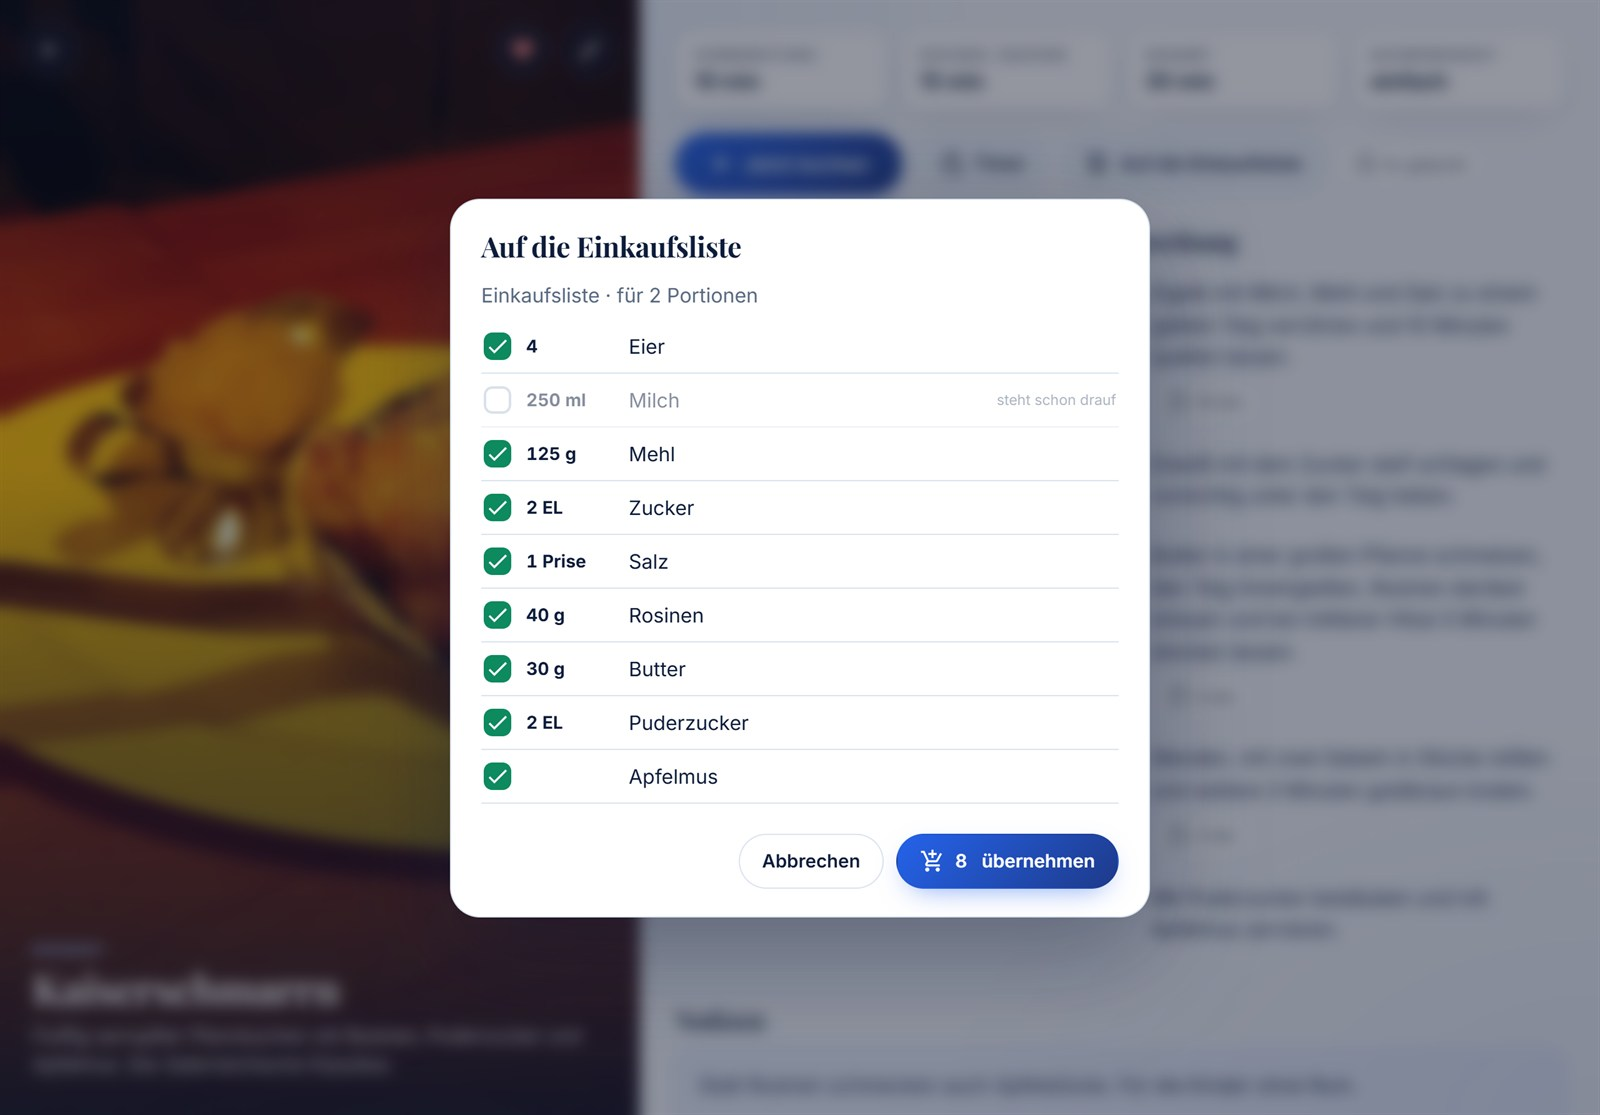
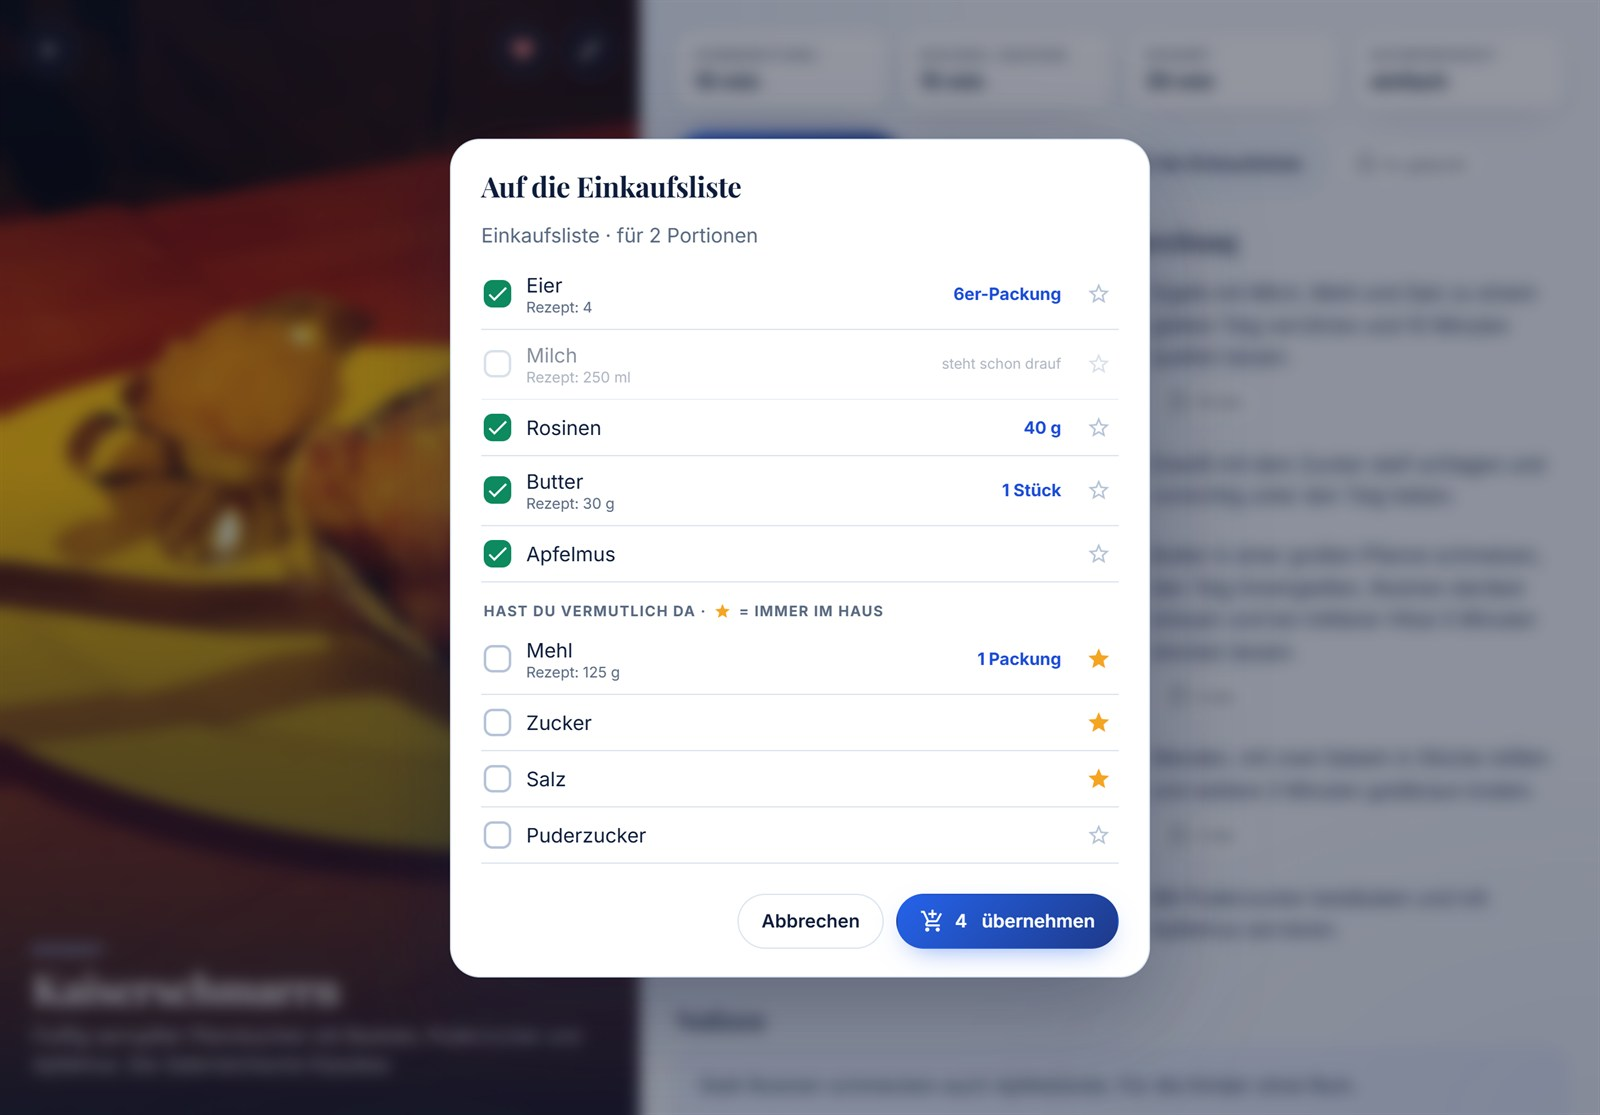
0.6.0: Einkaufsliste rechnet in Packungen und kennt den Vorrat
- Mengen werden in Packungen umgerechnet (150 ml Sahne → 1 Becher,
  4 Eier → 6er-Packung, 2 Zehen Knoblauch → 1 Knolle); lose Ware behält
  das Gewicht, unbekannte Zutaten kommen nur mit dem Namen auf die Liste
- Vorrat und Kleinmengen (Prise, Msp., EL, TL …) sind nicht vorausgewählt
  und stehen unter „Hast du vermutlich da“; Wasser wird nie übernommen
- Stern merkt eine Zutat als „immer im Haus“, gespeichert unter
  kochbuch.pantry; neue Kartenoption pantry für die Startliste
- Gleiche Zutaten werden zusammengerechnet, Eier/Eigelb/Eiweiß zu einer
  Zeile

diff --git a/kochbuch-card.js b/kochbuch-card.js
@@ -1,9 +1,9 @@
-/* kochbuch-card v0.5.2 – eigenes Kochbuch für Home Assistant: Rezepte schreiben und bebildern, Kochmodus mit Timern, Zutaten auf die Einkaufsliste,
+/* kochbuch-card v0.6.0 – eigenes Kochbuch für Home Assistant: Rezepte schreiben und bebildern, Kochmodus mit Timern, Zutaten auf die Einkaufsliste,
    Rezepte aus dem Internet einlesen (schema.org-Rezeptdaten der Seite).
    Rezepte liegen in einem eigenen Dashboard (store), Bilder im Bilderspeicher von Home Assistant (image_upload).
    Seitenabruf über rest_command.kochbuch_abruf, sonst über einen öffentlichen Abrufdienst. */
 (() => {
-  const VERSION = '0.5.2';
+  const VERSION = '0.6.0';
   // Öffentliche Abrufdienste, nur als Notlösung ohne rest_command (oft überlastet)
   const PROXIES = ['https://api.allorigins.win/raw?url=', 'https://api.codetabs.com/v1/proxy?quest='];
   const esc = (s) => String(s == null ? '' : s).replace(/[&<>"']/g, (c) => ({ '&': '&amp;', '<': '&lt;', '>': '&gt;', '"': '&quot;', "'": '&#39;' }[c]));
@@ -198,6 +198,64 @@
     return { r, img: img ? abs(img) : '', found: !!n };
   };
 
+  // ---------- Einkaufen: Vorrat und Packungsgrößen ----------
+  // Grundliste für "hab ich meistens im Haus"; im Kochbuch per Stern änderbar (kb.pantry)
+  const PANTRY = ['Salz', 'Pfeffer', 'Zucker', 'Öl', 'Olivenöl', 'Mehl', 'Essig'];
+  const NEVER = ['wasser', 'leitungswasser', 'eiswasser'];
+  // Kleinstmengen kommen fast immer aus dem Vorrat
+  const TINY = ['prise', 'prisen', 'msp.', 'spritzer', 'schuss', 'tropfen', 'el', 'tl'];
+  const words = (s) => String(s || '').toLowerCase().split(/[\s,/()-]+/).filter(Boolean);
+  const matchName = (name, q) => { q = String(q || '').toLowerCase().trim(); const n = String(name || '').toLowerCase().trim(); return !!q && (n === q || words(n).includes(q)); };
+  const inList = (name, list) => list.some((p) => matchName(name, p));
+  // Übliche Packungen: Stichwort, Größe in g bzw. ml, Bezeichnung
+  const PACKS = [['butter', 250, 'Stück'], ['schlagsahne', 200, 'Becher'], ['saure sahne', 200, 'Becher'], ['sahne', 200, 'Becher'], ['schmand', 200, 'Becher'], ['crème fraîche', 200, 'Becher'],
+    ['creme fraiche', 200, 'Becher'], ['joghurt', 500, 'Becher'], ['quark', 500, 'Packung'], ['mascarpone', 250, 'Packung'], ['frischkäse', 200, 'Packung'], ['mozzarella', 125, 'Packung'],
+    ['feta', 200, 'Packung'], ['milch', 1000, 'Liter'], ['kokosmilch', 400, 'Dose'], ['hackfleisch', 500, 'Packung'], ['hack', 500, 'Packung'], ['speckwürfel', 125, 'Packung'],
+    ['spaghetti', 500, 'Packung'], ['nudeln', 500, 'Packung'], ['penne', 500, 'Packung'], ['lasagneplatten', 250, 'Packung'], ['reis', 1000, 'Packung'], ['mehl', 1000, 'Packung'],
+    ['zucker', 1000, 'Packung'], ['passierte tomaten', 500, 'Packung'], ['stückige tomaten', 400, 'Dose'], ['gehackte tomaten', 400, 'Dose']].sort((a, b) => b[0].length - a[0].length);
+  const BASE = { g: 1, kg: 1000, ml: 1, l: 1000, cl: 10, dl: 100 };
+  const COUNT = { Dose: 'Dose', Dosen: 'Dose', Becher: 'Becher', 'Pck.': 'Packung', 'Päckchen': 'Packung', Glas: 'Glas', 'Gläser': 'Glas', Bund: 'Bund', Beutel: 'Beutel', 'Tüte': 'Tüte', Stange: 'Stange', Stangen: 'Stange', Kopf: 'Kopf', 'Stück': 'Stück', 'Stk.': 'Stück' };
+  const PLURAL = { Packung: 'Packungen', Dose: 'Dosen', Glas: 'Gläser', 'Tüte': 'Tüten', Stange: 'Stangen', Kopf: 'Köpfe' };
+  const pl = (k, w) => `${k} ${k === 1 ? w : PLURAL[w] || w}`;
+  const hasWord = (n, kw) => new RegExp('(^|[^a-zäöüß])' + kw.replace(/[.*+?^${}()|[\]\\]/g, '\\$&') + '($|[^a-zäöüß])').test(n);
+  // Was man im Laden kauft: "150 ml Sahne" -> "1 Becher", "4 Eier" -> "6er-Packung", sonst Rezeptmenge oder nur der Name
+  const buyText = (it, f) => {
+    const a = it.amount == null || it.amount === '' ? null : (+(it.amount2 || it.amount)) * f;
+    const n = String(it.name || '').toLowerCase(), u = it.unit || '', w = words(n);
+    if (a && (!u || COUNT[u] === 'Stück') && w.some((x) => ['ei', 'eier', 'eigelb', 'eiweiß'].includes(x))) { const k = Math.ceil(a); return k <= 6 ? '6er-Packung' : k <= 10 ? '10er-Packung' : `${Math.ceil(k / 10)} × 10er-Packung`; }
+    if (/^zehe/i.test(u)) return '1 Knolle';
+    if (/^(zweig|blatt|blätter)/i.test(u)) return '1 Bund';
+    if (!a) return '';
+    if (BASE[u]) {
+      const p = PACKS.find(([kw]) => hasWord(n, kw));
+      return p ? pl(Math.ceil((a * BASE[u]) / p[1]), p[2]) : fmtAmt(it, f);
+    }
+    if (COUNT[u]) return pl(Math.ceil(a), COUNT[u]);
+    if (!u) return `${Math.ceil(a)} Stück`;
+    return '';
+  };
+
+  // Für den Einkauf zusammenfassen: gleiche Zutat mit gleicher Einheit addieren,
+  // Eier + Eigelb/Eiweiß zu einer Zeile (getrennte Eier nicht doppelt zählen)
+  const shopItems = (ings) => {
+    const out = [];
+    ings.filter((it) => !it.group && it.name && !inList(it.name, NEVER)).forEach((it) => {
+      const m = out.find((y) => y.name.toLowerCase().trim() === it.name.toLowerCase().trim() && (y.unit || '') === (it.unit || ''));
+      if (!m) out.push(Object.assign({}, it));
+      else if (m.amount != null && it.amount != null) { m.amount = +m.amount + +it.amount; m.amount2 = null; }
+    });
+    const egg = (it, kinds) => (!it.unit || COUNT[it.unit] === 'Stück') && it.amount != null && words(it.name).some((x) => kinds.includes(x));
+    const whole = out.filter((it) => egg(it, ['ei', 'eier'])), part = out.filter((it) => egg(it, ['eigelb', 'eiweiß']));
+    if (whole.length + part.length > 1) {
+      const n = whole.reduce((s, it) => s + +it.amount, 0) + Math.max(0, ...part.map((it) => +it.amount));
+      const at = out.indexOf(whole[0] || part[0]);
+      const keep = out.filter((it) => !whole.includes(it) && !part.includes(it));
+      keep.splice(Math.min(at, keep.length), 0, { amount: n, amount2: null, unit: '', name: 'Eier', note: '' });
+      return keep;
+    }
+    return out;
+  };
+
   // Zutaten eines Schritts: festgelegt (step.ing) oder automatisch über den Namen im Text
   const stepIngs = (r, st) => {
     if (Array.isArray(st.ing)) return st.ing.filter((i) => r.ingredients[i] && !r.ingredients[i].group);
@@ -214,7 +272,9 @@
 
   const norm = (kb) => {
     const d = kb && typeof kb === 'object' ? kb : {};
-    return { v: 1, recipes: Array.isArray(d.recipes) ? d.recipes : [] };
+    const out = { v: 1, recipes: Array.isArray(d.recipes) ? d.recipes : [] };
+    if (Array.isArray(d.pantry)) out.pantry = d.pantry;
+    return out;
   };
   const blank = () => ({ id: uid(), title: '', desc: '', cat: '', tags: [], portions: 4, prep: null, cook: null, rest: null, diff: 1, fav: false, image: null,
     ingredients: [{ amount: null, amount2: null, unit: '', name: '', note: '' }], steps: [{ text: '' }], notes: '', created: Date.now(), cooked: 0, last: null });
@@ -415,8 +475,13 @@ select.in{appearance:none}
 .blist{list-style:none;margin:0;padding:0}
 .blist li{display:flex;gap:12px;align-items:center;padding:10px 2px;border-bottom:1px solid var(--line);cursor:pointer}
 .blist li.has{opacity:.5}
-.blist .amt{min-width:70px;font-size:.88rem}
-.blist em{margin-left:auto;font-style:normal;font-size:.72rem;color:var(--mut)}
+.blist .bnm{flex:1;min-width:0}
+.blist .bnm small{display:block;color:var(--mut);font-size:.74rem;margin-top:1px}
+.blist .buy{font-weight:700;font-size:.85rem;color:var(--acc);white-space:nowrap}
+.blist em{font-style:normal;font-size:.72rem;color:var(--mut);white-space:nowrap}
+.blist li.sep{cursor:default;border:0;padding:16px 2px 4px;font-size:.72rem;letter-spacing:.08em;text-transform:uppercase;color:var(--mut);font-weight:700;gap:6px}
+.pst{width:36px;height:36px;margin:-6px -4px -6px 0;border-radius:50%;color:#b6c4d8;--mdc-icon-size:20px;flex:none;display:inline-flex;align-items:center;justify-content:center}
+.pst.on{color:#f5a524}
 .toast{position:absolute;left:50%;bottom:26px;transform:translate(-50%,20px);opacity:0;z-index:30;background:var(--txt);color:var(--bg);padding:12px 20px;border-radius:999px;font-weight:600;font-size:.9rem;transition:all .3s;pointer-events:none;max-width:90%;text-align:center}
 .toast.show{opacity:1;transform:translate(-50%,0)}
 .toast.err{background:var(--bad);color:#fff}
@@ -1032,15 +1097,44 @@ a.tag{text-decoration:none;color:var(--acc)}
         const items = (res && res.response && res.response[ent] && res.response[ent].items) || [];
         have = items.map((x) => String(x.summary || '').toLowerCase().trim());
       } catch (e) { /* Liste nicht lesbar: alles anbieten */ }
-      this._bl = r.ingredients.map((it, i) => ({ i, it })).filter((x) => !x.it.group && x.it.name).map((x) => {
-        const has = have.includes(x.it.name.toLowerCase().trim());
-        return { i: x.i, name: x.it.name, amt: fmtAmt(x.it, f), has, on: !has };
+      const pantry = this._pantry();
+      this._bl = shopItems(r.ingredients).map((it) => {
+        const has = have.includes(it.name.toLowerCase().trim());
+        const tiny = TINY.includes(String(it.unit || '').toLowerCase());
+        const x = { name: it.name, buy: buyText(it, f), rec: fmtAmt(it, f), has, tiny, staple: inList(it.name, pantry) };
+        x.on = !has && !x.staple && !tiny;
+        return x;
       });
-      const st = this._hass.states[ent];
+      this._bringDlg();
+    }
+    // Vorrat: im Kochbuch gespeichert (alle Geräte), sonst Kartenoption pantry, sonst Grundliste
+    _pantry() { return Array.isArray(this._data.pantry) ? this._data.pantry : Array.isArray(this._c.pantry) ? this._c.pantry : PANTRY; }
+    // Einkaufen oben, "hast du vermutlich da" unten; Stern = immer im Haus
+    _bringDlg() {
+      const ent = this._c.shopping_list, st = this._hass.states[ent];
+      const row = (x, k) => `<li class="${x.on ? 'on' : ''}${x.has ? ' has' : ''}" data-act="bt" data-k="${k}"><span class="box"><ha-icon icon="mdi:check"></ha-icon></span>
+        <span class="bnm">${esc(x.name)}${x.rec && x.buy && x.rec !== x.buy ? `<small>Rezept: ${esc(x.rec)}</small>` : ''}</span>
+        ${x.has ? '<em>steht schon drauf</em>' : x.buy ? `<span class="buy">${esc(x.buy)}</span>` : ''}
+        <button class="pst${x.staple ? ' on' : ''}" data-act="pstar" data-k="${k}" aria-label="Immer im Haus" title="${x.staple ? 'Nicht mehr als Vorrat merken' : 'Hab ich immer im Haus'}"><ha-icon icon="mdi:star${x.staple ? '' : '-outline'}"></ha-icon></button></li>`;
+      const idx = this._bl.map((x, k) => k), main = idx.filter((k) => !this._bl[k].staple && !this._bl[k].tiny), rest = idx.filter((k) => this._bl[k].staple || this._bl[k].tiny);
       this._modal(`<div class="dlg"><h3>Auf die Einkaufsliste</h3>
         <div class="db"><p class="mut" style="margin:0 0 10px">${esc(st ? st.attributes.friendly_name || ent : ent)} · für ${this._por} ${this._por === 1 ? 'Portion' : 'Portionen'}</p>
-        <ul class="blist">${this._bl.map((x, k) => `<li class="${x.on ? 'on' : ''}${x.has ? ' has' : ''}" data-act="bt" data-k="${k}"><span class="box"><ha-icon icon="mdi:check"></ha-icon></span><span class="amt">${esc(x.amt)}</span><span>${esc(x.name)}</span>${x.has ? '<em>steht schon drauf</em>' : ''}</li>`).join('')}</ul></div>
+        <ul class="blist">${main.map((k) => row(this._bl[k], k)).join('')}
+        ${rest.length ? `<li class="sep">Hast du vermutlich da · <ha-icon icon="mdi:star" style="--mdc-icon-size:14px;color:#f5a524"></ha-icon> = immer im Haus</li>${rest.map((k) => row(this._bl[k], k)).join('')}` : ''}</ul></div>
         <div class="df"><button class="btn ghost" data-act="mclose">Abbrechen</button><button class="btn pri" data-act="bsend"><ha-icon icon="mdi:cart-plus"></ha-icon><span class="bn">${this._bl.filter((x) => x.on).length}</span>&nbsp;übernehmen</button></div></div>`);
+    }
+    // Stern: Zutat als Vorrat merken oder vergessen, gespeichert im Kochbuch
+    _pantryToggle(k) {
+      const x = this._bl[k];
+      const cur = this._pantry().slice();
+      const next = x.staple ? cur.filter((p) => !matchName(x.name, p)) : cur.concat(String(x.name).trim());
+      this._bl.filter((y) => matchName(y.name, x.name) || inList(y.name, next) !== y.staple).forEach((y) => {
+        y.staple = inList(y.name, next);
+        y.on = !y.has && !y.staple && !y.tiny;
+      });
+      this._data.pantry = next;
+      this._bringDlg();
+      this._mutate((kb) => { kb.pantry = next; }, x.staple ? `${x.name} als Vorrat gemerkt` : `${x.name} kommt wieder auf die Liste`);
     }
     async _bringSend() {
       const sel = (this._bl || []).filter((x) => x.on);
@@ -1049,10 +1143,10 @@ a.tag{text-decoration:none;color:var(--acc)}
       for (const x of sel) {
         const tgt = { entity_id: this._c.shopping_list };
         try {
-          await this._hass.callService('todo', 'add_item', x.amt ? { item: x.name, description: x.amt } : { item: x.name }, tgt); ok++;
+          await this._hass.callService('todo', 'add_item', x.buy ? { item: x.name, description: x.buy } : { item: x.name }, tgt); ok++;
         } catch (e) {
           // Liste ohne Beschreibungsfeld: Menge in den Namen schreiben
-          try { await this._hass.callService('todo', 'add_item', { item: x.amt ? `${x.name} (${x.amt})` : x.name }, tgt); ok++; } catch (e2) { /* weiter */ }
+          try { await this._hass.callService('todo', 'add_item', { item: x.buy ? `${x.name} (${x.buy})` : x.name }, tgt); ok++; } catch (e2) { /* weiter */ }
         }
       }
       this._modal(null);
@@ -1249,6 +1343,7 @@ a.tag{text-decoration:none;color:var(--acc)}
           break;
         }
         case 'bt': { const x = this._bl[+el.dataset.k]; x.on = !x.on; el.classList.toggle('on', x.on); const bn = this._$('.bn'); if (bn) bn.textContent = this._bl.filter((y) => y.on).length; break; }
+        case 'pstar': e.stopPropagation(); this._pantryToggle(+el.dataset.k); break;
         case 'bsend': this._bringSend(); break;
         case 'mclose': this._modal(null); break;
         case 'cfok': { const fn = this._cfn; this._cfn = null; this._modal(null); if (fn) fn(); break; }

diff --git a/README.md b/README.md
@@ -8,7 +8,7 @@
 - **Aus dem Internet:** Adresse einer Rezeptseite einfügen (Chefkoch, Lecker, Foodblogs …), die Karte füllt den Editor aus. Vor dem Speichern prüfst du alles.
 - **Kochmodus:** großer Text, Zutaten je Schritt, Timer mit Ring und Alarm, Temperatur, Wischen oder Pfeiltasten zum Blättern. Der Bildschirm bleibt an.
 - **Portionen umrechnen:** Mengen passen sich an, aus „1000 g“ wird „1 kg“.
-- **Einkaufsliste:** fehlende Zutaten mit Menge auf eine `todo`-Liste setzen (zum Beispiel Bring! oder die Einkaufsliste von Home Assistant). Was schon draufsteht, wird erkannt.
+- **Einkaufsliste, die mitdenkt:** Zutaten auf eine `todo`-Liste setzen (zum Beispiel Bring! oder die Einkaufsliste von Home Assistant), umgerechnet in Packungen („150 ml Sahne“ → „1 Becher“). Was du meistens im Haus hast, und Kleinmengen wie „3 Prisen Pfeffer“ sind nicht vorausgewählt. Was schon draufsteht, wird erkannt.
 - **Freie Timer** für Eier, Nudeln, Reis oder eigene Zeiten, auf Wunsch mit Ansage über einen Lautsprecher.
 - **Vorlesen und Sprachsteuerung:** Schritte vorlesen lassen, „Alexa, nächster Schritt“ über Routinen.
 
@@ -24,7 +24,7 @@ Rezepte liegen in einem eigenen Dashboard von Home Assistant, Fotos im Bilderspe
 
 ![Kochmodus mit laufendem Timer und Zutaten für den Schritt](docs/img/kochmodus.jpg)
 
-**Einkaufsliste:** Die Zutaten gehen mit Menge auf deine `todo`-Liste. Was schon draufsteht, ist abgewählt.
+**Einkaufsliste:** Oben steht, was du kaufen musst, gleich in Packungen umgerechnet. Unten steht, was du vermutlich da hast. Was schon auf der Liste steht, ist abgewählt. Mehr dazu unter [Einkaufsliste](#einkaufsliste).
 
 ![Zutaten auf die Einkaufsliste übernehmen](docs/img/einkaufsliste.jpg)
 
@@ -57,7 +57,7 @@ HACS → ⋮ → *Benutzerdefinierte Repositories* → `https://github.com/msuci
 ### Manuell
 
 1. `kochbuch-card.js` nach `/config/www/kochbuch-card.js` kopieren (zum Beispiel mit der App *File editor* oder per Samba).
-2. Einstellungen → Dashboards → ⋮ → *Ressourcen* → *Ressource hinzufügen*: URL `/local/kochbuch-card.js?v=0.5.2`, Typ *JavaScript-Modul*.
+2. Einstellungen → Dashboards → ⋮ → *Ressourcen* → *Ressource hinzufügen*: URL `/local/kochbuch-card.js?v=0.6.0`, Typ *JavaScript-Modul*.
 3. Browser hart neu laden (Strg + Umschalt + R) bzw. in der Companion-App den Frontend-Cache zurücksetzen.
 
 Bei jedem Update die Zahl hinter `?v=` erhöhen, damit Browser und App die neue Datei laden.
@@ -87,8 +87,28 @@ views:
 | `announce` | – | Dienst für Timer-Ansagen, zum Beispiel `notify.alexa_media_kueche` |
 | `speak` | Wert von `announce` | Dienst für das Vorlesen der Schritte |
 | `voice` | siehe unten | Schalter oder Knöpfe für die Sprachsteuerung |
+| `pantry` | Salz, Pfeffer, Zucker, Öl, Olivenöl, Mehl, Essig | Startliste für „hab ich meistens im Haus“. Sobald du im Einkaufsdialog einen Stern setzt, gilt die im Kochbuch gespeicherte Liste. |
 
 **Speichern geht nur mit einem Administrator-Konto**, weil die Rezepte in einer Dashboard-Konfiguration liegen. Lesen und Kochen geht mit jedem Konto.
+
+## Einkaufsliste
+
+Ein Rezept sagt, wie viel du verbrauchst. Die Einkaufsliste braucht, was du kaufen musst. „Auf die Einkaufsliste“ rechnet deshalb um:
+
+| Im Rezept | Auf der Liste |
+|---|---|
+| 150 ml Sahne | Sahne · 1 Becher |
+| 300 g + 100 g Butter | Butter · 2 Stück |
+| 4 Eier, 3 Eigelb | Eier · 10er-Packung |
+| 2 Zehen Knoblauch | Knoblauch · 1 Knolle |
+| 400 g Karotten | Karotten · 400 g (lose Ware) |
+| 3 Prisen Pfeffer, 2 EL Olivenöl | nicht vorausgewählt („hast du vermutlich da“) |
+| 500 ml Wasser | gar nicht |
+
+- **Vorrat:** Zutaten aus deiner Vorratsliste und Kleinmengen (Prise, Messerspitze, Spritzer, EL, TL) stehen unten unter „Hast du vermutlich da“ und sind abgewählt. Brauchst du doch etwas, tippst du es an.
+- **Stern:** Mit ☆ merkst du dir eine Zutat als „immer im Haus“, mit ★ nimmst du sie wieder heraus. Die Liste wird im Kochbuch gespeichert und gilt auf allen Geräten.
+- **Packungen:** Für die häufigsten Zutaten kennt die Karte die üblichen Packungsgrößen (Butter 250 g, Sahne 200 ml, Milch 1 l, Mozzarella 125 g, Hack 500 g, Nudeln 500 g …). Andere Zutaten kommen mit der Rezeptmenge oder nur mit dem Namen auf die Liste.
+- Gleiche Zutaten werden zusammengerechnet. Eier, Eigelb und Eiweiß werden zu einer Zeile, getrennte Eier zählen dabei nicht doppelt.
 
 ## Rezepte aus dem Internet
 
@@ -145,6 +165,7 @@ Vorgelesen wird über `speak` (sonst `announce`) mit `data: {type: tts}`, passen
 
 - **Rezepte:** im Dashboard `store` unter dem Schlüssel `kochbuch` der Konfiguration. Mehrere Geräte arbeiten auf demselben Stand, jede Änderung liest vorher neu.
 - **Fotos:** im Bilderspeicher von Home Assistant (`/api/image`), beim Hochladen auf höchstens 1600 px verkleinert. Ersetzte oder gelöschte Fotos werden mit entfernt.
+- **Vorratsliste:** ebenfalls im Dashboard `store`, unter `kochbuch.pantry`.
 - **Gerätebezogen** (nur im Browser): zuletzt gewählte Kategorie und ob Schritte automatisch vorgelesen werden.
 
 ## Bildnachweise

diff --git a/CHANGELOG.md b/CHANGELOG.md
@@ -1,5 +1,13 @@
 # Änderungen
 
+## 0.6.0 (2026-10-27)
+
+- **Einkaufsliste, die mitdenkt:**
+  - Mengen werden in Packungen umgerechnet: „150 ml Sahne“ → „1 Becher“, „4 Eier“ → „6er-Packung“, „2 Zehen Knoblauch“ → „1 Knolle“. Lose Ware behält ihr Gewicht, unbekannte Zutaten kommen nur mit dem Namen auf die Liste.
+  - Vorrat und Kleinmengen (Prise, Messerspitze, Spritzer, EL, TL) sind nicht vorausgewählt und stehen in einem eigenen Bereich „Hast du vermutlich da“. Wasser wird nie übernommen.
+  - Mit dem Stern merkst du dir eine Zutat als „immer im Haus“. Gespeichert im Kochbuch (`kochbuch.pantry`), gilt für alle Geräte. Neue Kartenoption `pantry` für die Startliste.
+  - Gleiche Zutaten werden zusammengerechnet, Eier, Eigelb und Eiweiß werden zu einer Zeile.
+
 ## 0.5.2 (2026-10-27)
 
 - Import-Fenster und README weisen darauf hin, dass eingelesene Rezepte (vor allem Fotos und Texte) urheberrechtlich geschützt und nur für das private Kochbuch gedacht sind.
